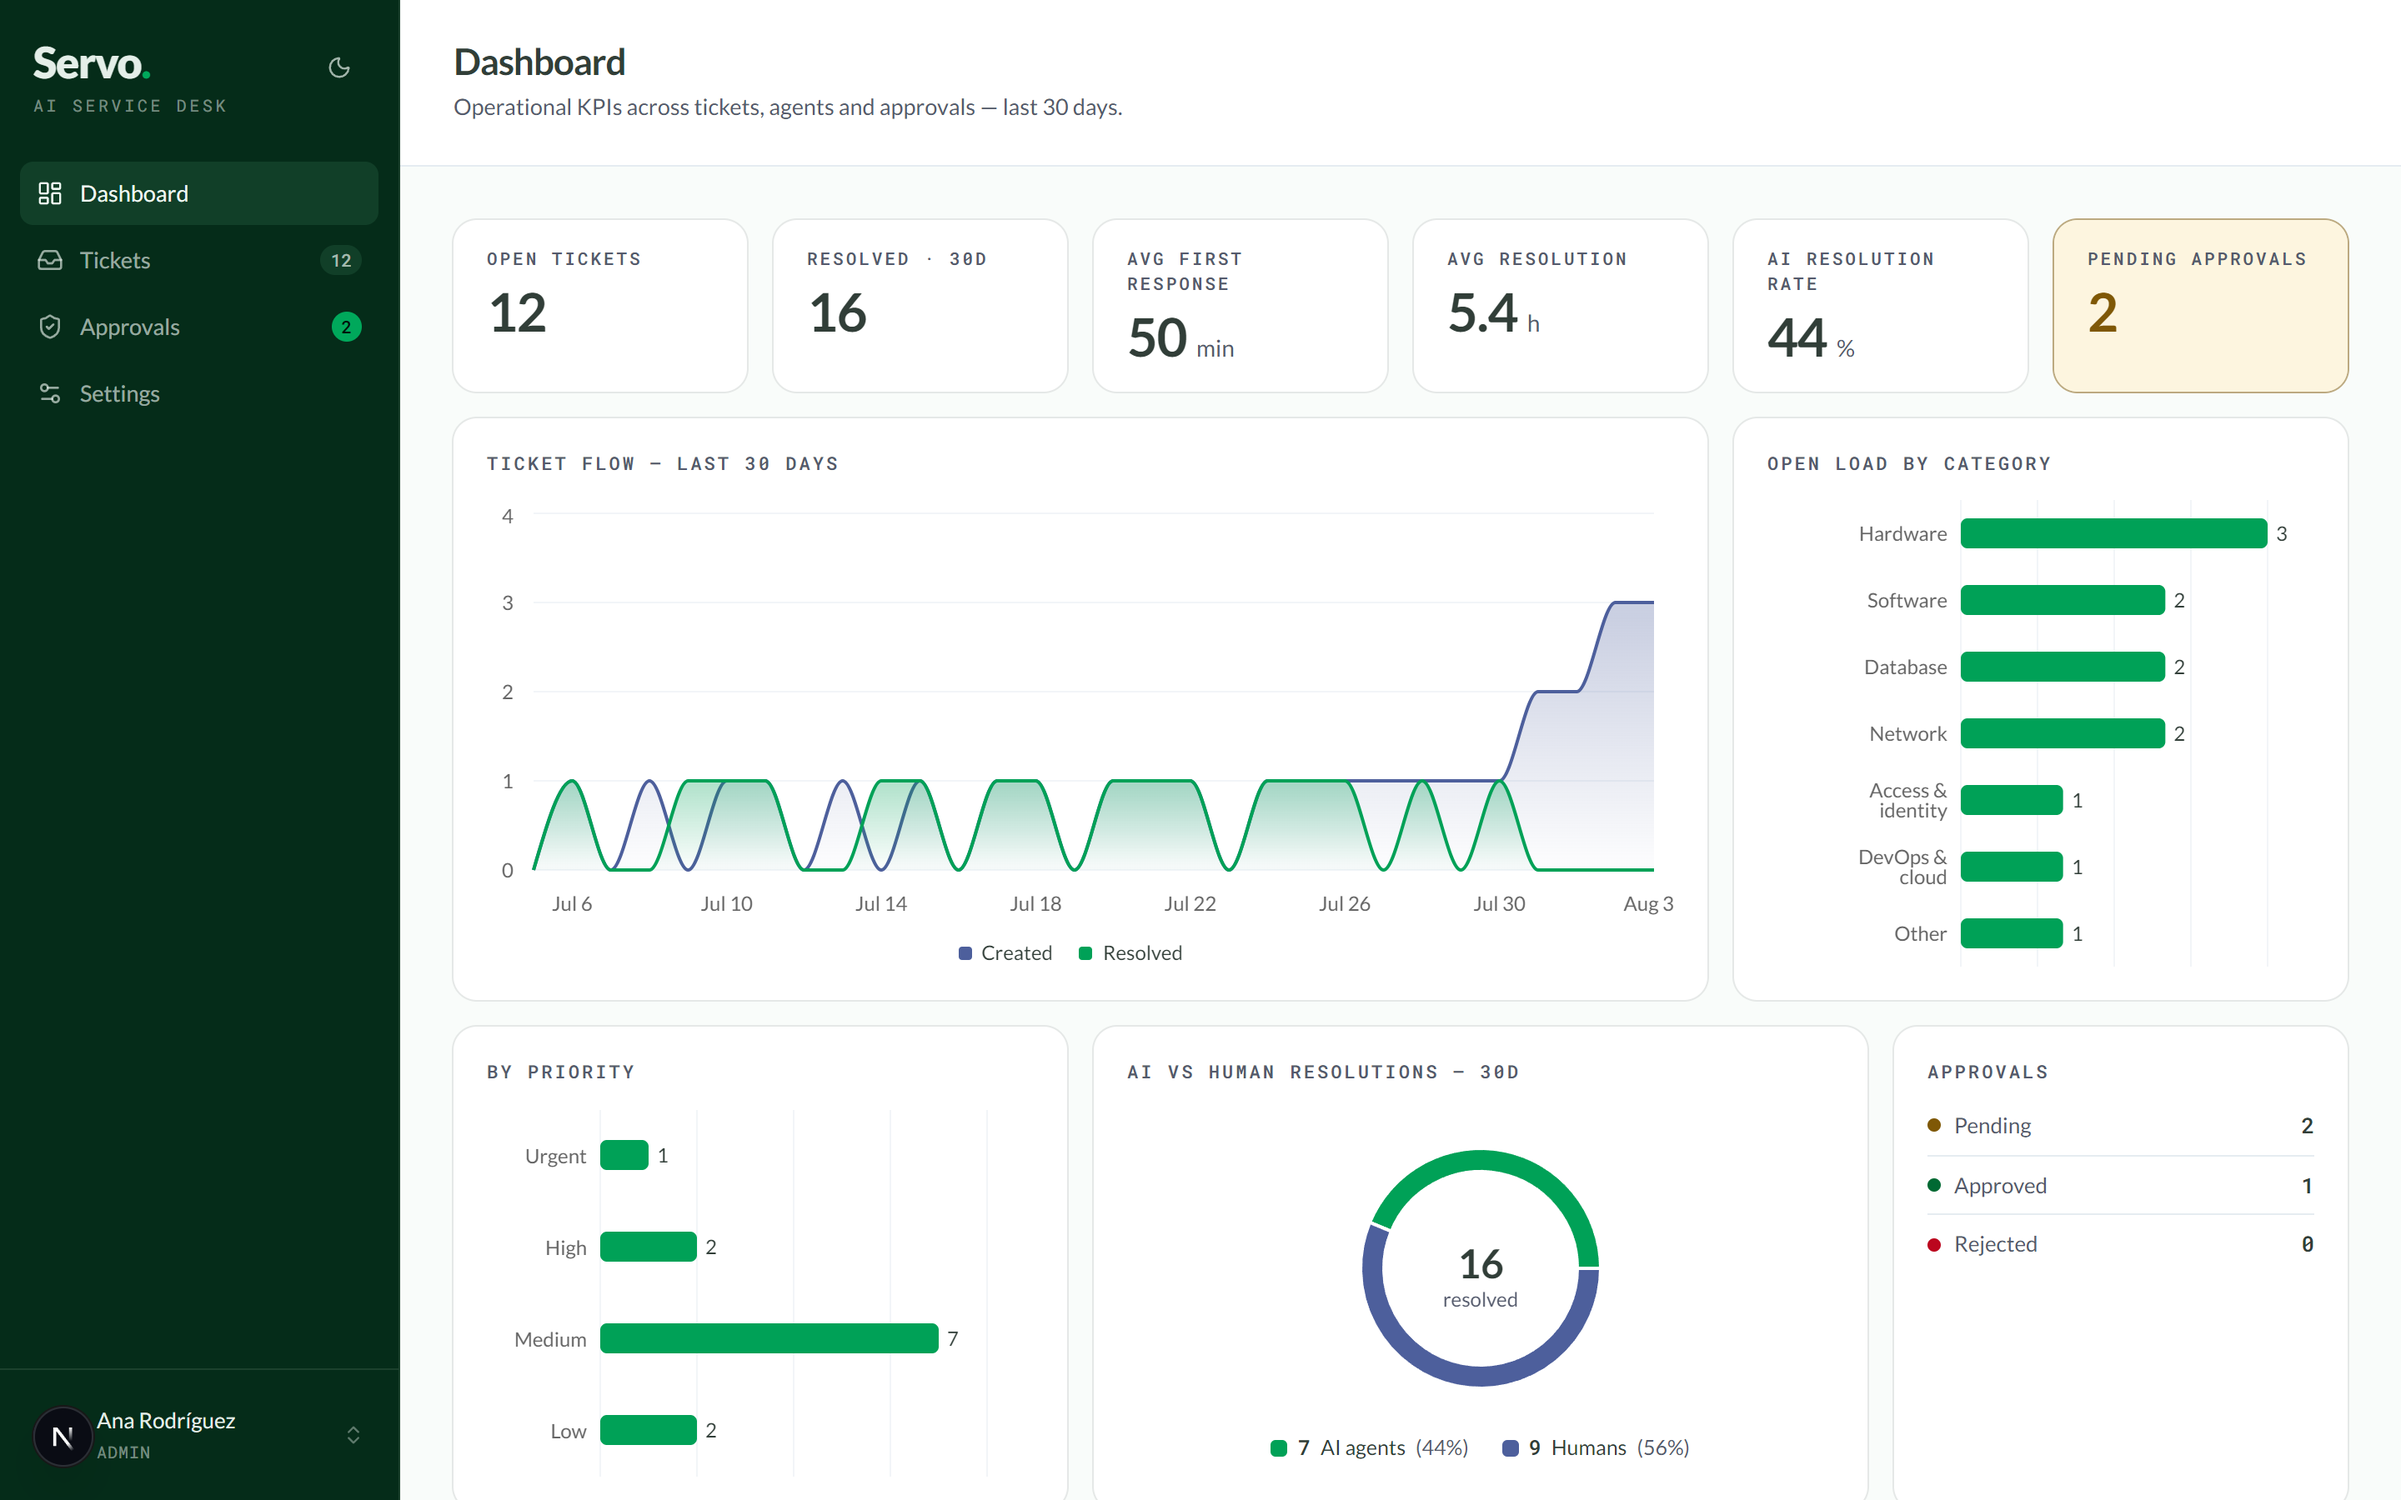
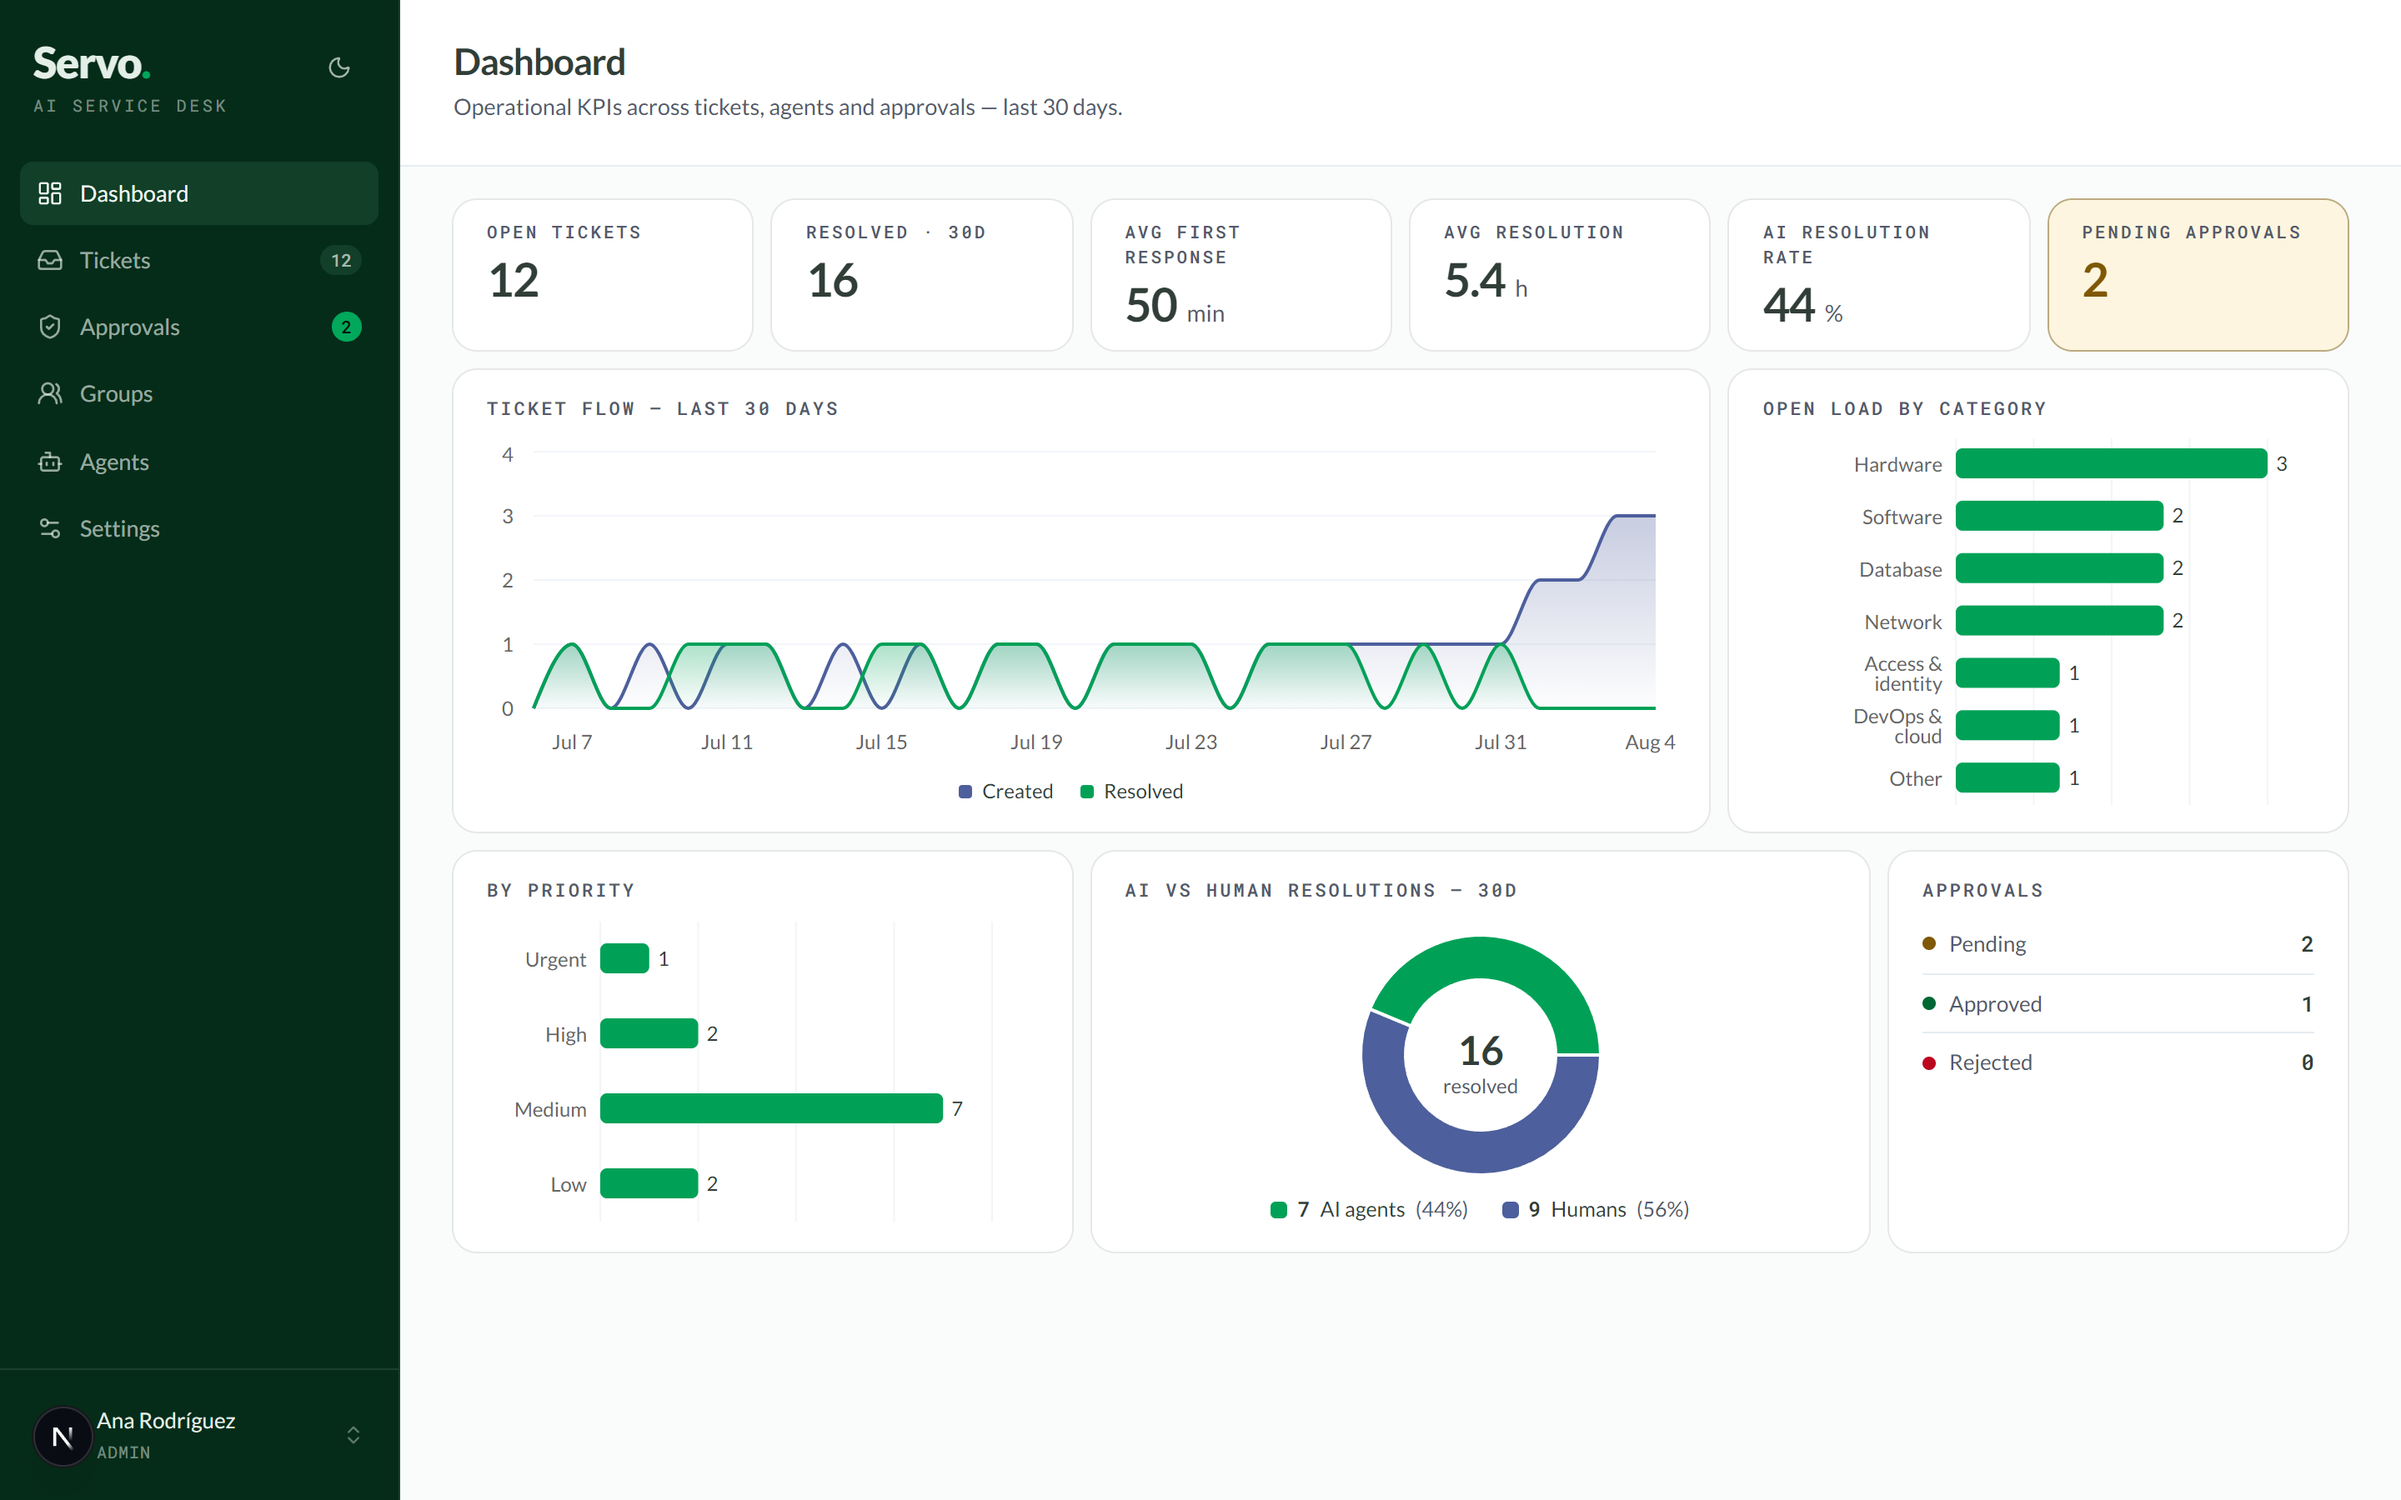
style(dashboard): fit the full dashboard in one viewport
- Tighter page padding and grid gaps, slimmer stat tiles (28px hero)
- Chart heights trimmed (flow/category 280 -> 220, priority 220 -> 180,
  donut container 160 with explicit inner/outer radii so the ring renders
  at the smaller size)
- Everything (6 KPI tiles + 4 charts + approvals) now visible without
  scrolling at 1440x900; README dashboard/mobile screenshots regenerated

diff --git a/src/app/dashboard/page.tsx b/src/app/dashboard/page.tsx
@@ -50,9 +50,9 @@ export default async function DashboardPage() {
         title="Dashboard"
         description="Operational KPIs across tickets, agents and approvals — last 30 days."
       />
-      <div className="grid grid-cols-12 gap-4 p-4 md:p-8">
+      <div className="grid grid-cols-12 gap-3 p-4 md:px-8 md:py-5">
         {/* Stat tile row */}
-        <div className="col-span-12 grid grid-cols-2 gap-4 md:grid-cols-3 xl:grid-cols-6">
+        <div className="col-span-12 grid grid-cols-2 gap-3 md:grid-cols-3 xl:grid-cols-6">
           <StatTile label="Open tickets" value={String(totals.open)} />
           <StatTile
             label="Resolved · 30d"
@@ -89,31 +89,31 @@ export default async function DashboardPage() {
         </div>
 
         {/* Ticket flow */}
-        <Card className="col-span-12 gap-4 px-5 py-5 xl:col-span-8">
+        <Card className="col-span-12 gap-3 px-5 py-4 xl:col-span-8">
           <CardHeading>Ticket flow — last 30 days</CardHeading>
           <FlowChart data={kpis.createdByDay} />
         </Card>
 
         {/* Open load by category */}
-        <Card className="col-span-12 gap-4 px-5 py-5 xl:col-span-4">
+        <Card className="col-span-12 gap-3 px-5 py-4 xl:col-span-4">
           <CardHeading>Open load by category</CardHeading>
           <CategoryBars data={kpis.byCategory} />
         </Card>
 
         {/* By priority */}
-        <Card className="col-span-12 gap-4 px-5 py-5 md:col-span-4">
+        <Card className="col-span-12 gap-3 px-5 py-4 md:col-span-4">
           <CardHeading>By priority</CardHeading>
           <PriorityBars data={kpis.byPriority} />
         </Card>
 
         {/* AI vs human resolutions */}
-        <Card className="col-span-12 gap-4 px-5 py-5 md:col-span-5">
+        <Card className="col-span-12 gap-3 px-5 py-4 md:col-span-5">
           <CardHeading>AI vs human resolutions — 30d</CardHeading>
           <AiVsHumanBar ai={aiResolved} human={humanResolved} />
         </Card>
 
         {/* Approvals mini-tile */}
-        <Card className="col-span-12 gap-2 px-5 py-5 md:col-span-3">
+        <Card className="col-span-12 gap-2 px-5 py-4 md:col-span-3">
           <CardHeading>Approvals</CardHeading>
           <ApprovalsTile
             approved={approvalStats.approved}

diff --git a/src/components/dashboard/AiVsHumanBar.tsx b/src/components/dashboard/AiVsHumanBar.tsx
@@ -25,7 +25,7 @@ export default function AiVsHumanBar({
 
   if (total === 0) {
     return (
-      <div className="flex h-[220px] items-center justify-center font-sans text-sm text-muted-foreground">
+      <div className="flex h-[180px] items-center justify-center font-sans text-sm text-muted-foreground">
         No resolutions in the last 30 days.
       </div>
     );
@@ -38,7 +38,7 @@ export default function AiVsHumanBar({
 
   return (
     <div className="flex flex-col items-center gap-1">
-      <ChartContainer config={config} className="aspect-square h-[190px]">
+      <ChartContainer config={config} className="aspect-square h-[160px]">
         <PieChart>
           <ChartTooltip
             cursor={false}
@@ -48,7 +48,8 @@ export default function AiVsHumanBar({
             data={data}
             dataKey="count"
             nameKey="kind"
-            innerRadius={58}
+            innerRadius={45}
+            outerRadius={72}
             strokeWidth={2}
             stroke="var(--card)"
             isAnimationActive={false}

diff --git a/src/components/dashboard/FlowChart.tsx b/src/components/dashboard/FlowChart.tsx
@@ -32,14 +32,14 @@ export default function FlowChart({ data }: { data: Point[] }) {
   const empty = data.every((p) => p.created === 0 && p.resolved === 0);
   if (empty) {
     return (
-      <div className="flex h-[280px] items-center justify-center font-sans text-sm text-muted-foreground">
+      <div className="flex h-[220px] items-center justify-center font-sans text-sm text-muted-foreground">
         No ticket activity in the last 30 days.
       </div>
     );
   }
 
   return (
-    <ChartContainer config={config} className="aspect-auto h-[280px] w-full">
+    <ChartContainer config={config} className="aspect-auto h-[220px] w-full">
       <AreaChart data={data} margin={{ left: 0, right: 12, top: 8 }}>
         <defs>
           <linearGradient id="fillCreated" x1="0" y1="0" x2="0" y2="1">

diff --git a/src/components/dashboard/CategoryBars.tsx b/src/components/dashboard/CategoryBars.tsx
@@ -26,14 +26,14 @@ export default function CategoryBars({
 
   if (rows.length === 0) {
     return (
-      <div className="flex h-[280px] items-center justify-center font-sans text-sm text-muted-foreground">
+      <div className="flex h-[220px] items-center justify-center font-sans text-sm text-muted-foreground">
         No open tickets right now.
       </div>
     );
   }
 
   return (
-    <ChartContainer config={config} className="aspect-auto h-[280px] w-full">
+    <ChartContainer config={config} className="aspect-auto h-[220px] w-full">
       <BarChart data={rows} layout="vertical" margin={{ left: 4, right: 28 }}>
         <CartesianGrid horizontal={false} />
         <XAxis type="number" hide />

diff --git a/src/components/dashboard/PriorityBars.tsx b/src/components/dashboard/PriorityBars.tsx
@@ -28,14 +28,14 @@ export default function PriorityBars({
 
   if (total === 0) {
     return (
-      <div className="flex h-[220px] items-center justify-center font-sans text-sm text-muted-foreground">
+      <div className="flex h-[180px] items-center justify-center font-sans text-sm text-muted-foreground">
         No open tickets right now.
       </div>
     );
   }
 
   return (
-    <ChartContainer config={config} className="aspect-auto h-[220px] w-full">
+    <ChartContainer config={config} className="aspect-auto h-[180px] w-full">
       <BarChart data={rows} layout="vertical" margin={{ left: 4, right: 28 }}>
         <CartesianGrid horizontal={false} />
         <XAxis type="number" hide />

diff --git a/src/components/dashboard/StatTile.tsx b/src/components/dashboard/StatTile.tsx
@@ -19,7 +19,7 @@ export default function StatTile({
   return (
     <Card
       className={cn(
-        "gap-2 px-5 py-4",
+        "gap-1.5 px-5 py-3",
         highlight && "bg-warn-soft/50 ring-warn/50 dark:bg-warn/10",
       )}
     >
@@ -29,7 +29,7 @@ export default function StatTile({
       <div className="flex items-baseline gap-1.5">
         <span
           className={cn(
-            "font-heading text-[32px] font-semibold leading-none tracking-tight text-foreground",
+            "font-heading text-[28px] font-semibold leading-none tracking-tight text-foreground",
             highlight && "text-warn",
           )}
         >
